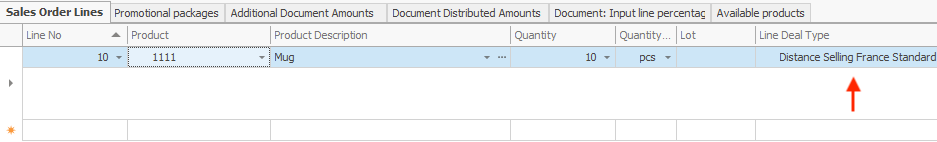
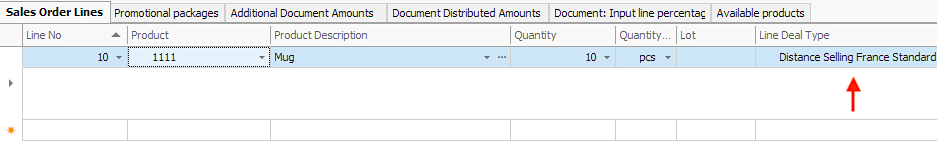
Latest changes from buid bot: 12:08 AM

diff --git a/docs/modules/crm/sales/tax-groups.html b/docs/modules/crm/sales/tax-groups.html
@@ -84,7 +84,7 @@
 <p>The final tax group is set to depend not only on the tax group of the product type (default), but on the <strong>deal type</strong> specified in the sales lines.</p>
 <p>To actually apply the effects of the algorithm, you need to configure the deal type's <strong>TaxCode</strong> field.</p>
 <p>As a result, one and the same product can now be assigned a foreign <strong>or</strong> a national tax group in accordance with the location its sale has been made in.</p>
-<p><img src="images/scrshot_1.png" alt="Picture"></p>
+<p><img src="images/linedeal.png" alt="Picture"></p>
 <h2 id="specifics">Specifics</h2>
 <p>There are four scenarios you may stumble upon while using the tax group defining algorithm.</p>
 <ol>
@@ -94,7 +94,6 @@
 <pre><code>IF Product.ProductType.TaxGroups.TaxGroup (Where ApplicableLegislation = 'BG') &lt;&gt; 0 
 THEN taxGroup = Product.ProductType.TaxGroups.TaxGroup (Where ApplicableLegislation = 'BG')
 </code></pre>
-<p><img src="images/scrshot_2.png" alt="Picture"></p>
 <ol start="2">
 <li>When the product type has a tax group <strong>different</strong> from zero and the applicable legislation is ''BG'', the tax group is going to be the same tax group.</li>
 </ol>
@@ -103,6 +102,7 @@ THEN taxGroup = Product.ProductType.TaxGroups.TaxGroup (Where ApplicableLegislat
 AND LineDealType.Country = 'BG' 
 THEN
 </code></pre>
+<p><img src="images/bglegislation.png" alt="Picture"></p>
 <ol start="3">
 <li>When the product type has a tax group <strong>equal</strong> to zero and the applicable legislation is ''BG'', the tax group is defined by the tax code of the deal type.</li>
 </ol>
@@ -130,8 +130,8 @@ IF LineDealType.TaxCode = &quot;INT&quot; THEN taxGroup = 1
 IF LineDealType.TaxCode = &quot;EXM&quot; THEN taxGroup = 1 
 IF LineDealType.TaxCode = &quot;NS&quot; THEN taxGroup = 1
 </code></pre>
+<p><img src="images/fr_legislation.png" alt="Picture"></p>
 <p>In this scenario, expect a document to be printed for tax group 1 - export.</p>
-<p><img src="images/scrshot_3.png" alt="Picture"></p>
 </article>
           </div>
           
